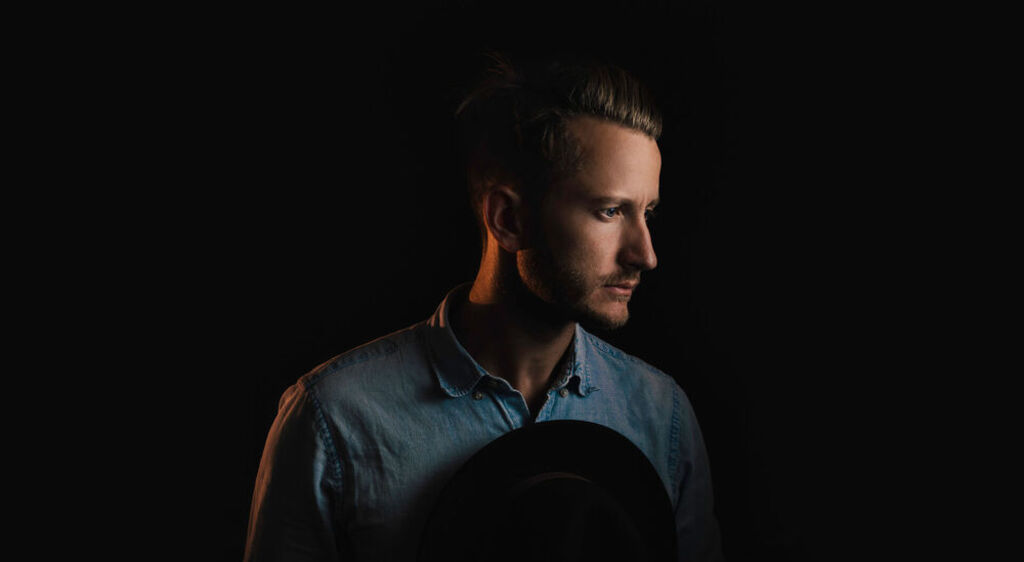
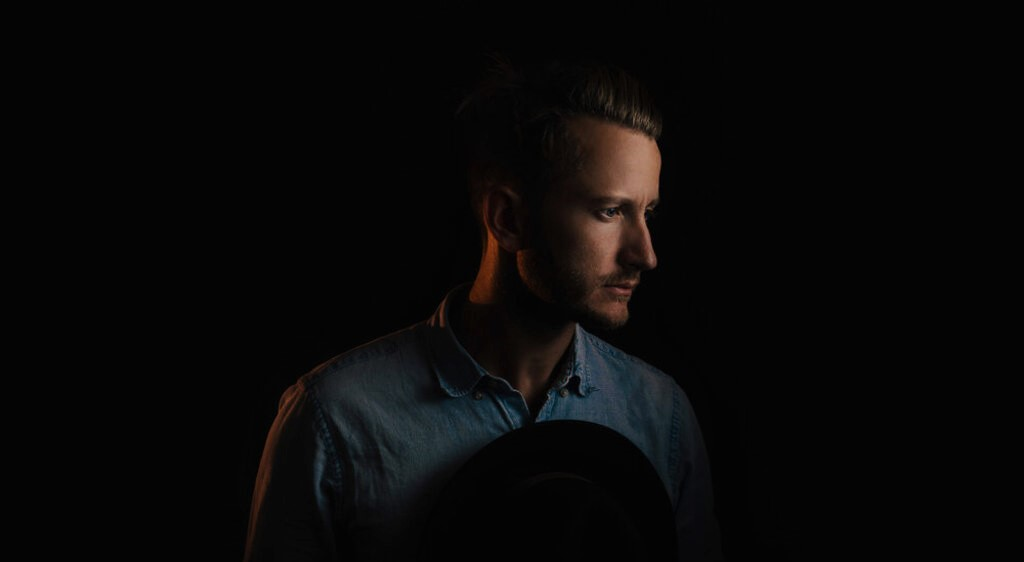
Fixed background dimming

diff --git a/css/style.css b/css/style.css
@@ -233,15 +233,6 @@ h6 {
   background-position: center center;
 }
 
-#intro .intro-background::before {
-  content: "";
-  display: block;
-  position: fixed;
-  width: 100%;
-  height: 100%;
-  background-image: linear-gradient(to bottom right, rgba(0, 0, 0, .5), rgba(0, 0, 0,.5));
-}
-
 #intro .intro-content {
   text-align: center;
   position: absolute;
